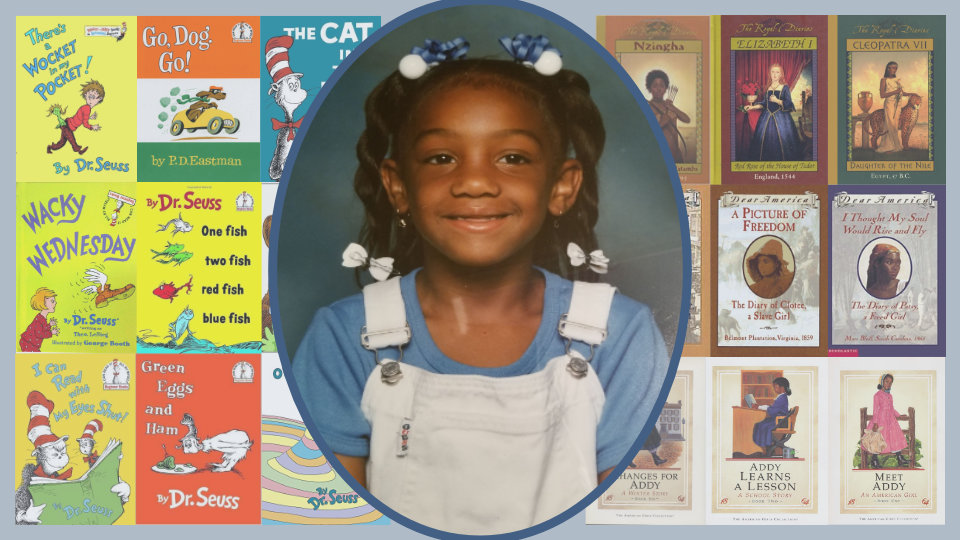
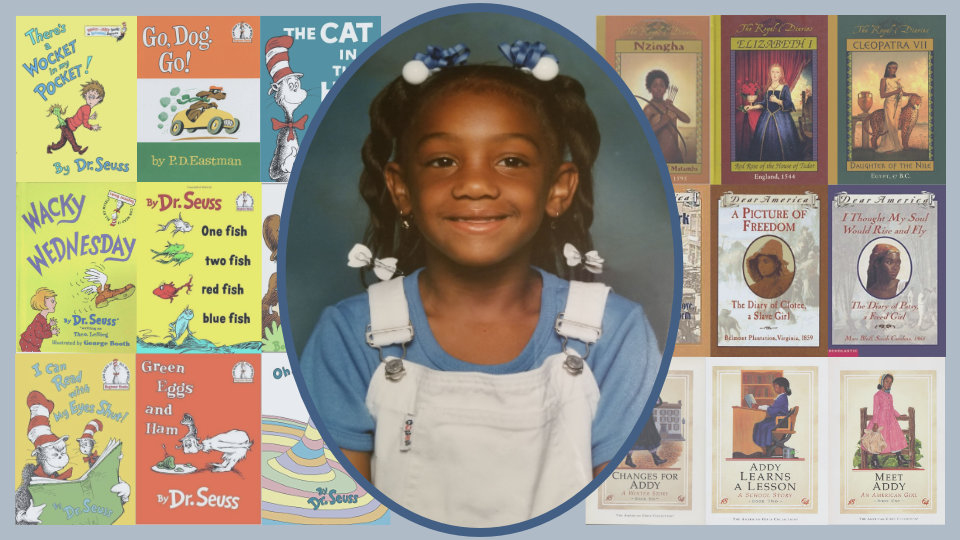
Finish cover image + Add description

Changed region(s): [[0.0, 0.0, 0.7188, 1.0], [0.0, 0.0296, 0.0938, 0.2074], [0.125, 0.9185, 0.1562, 0.9778]]

diff --git a/content/posts/childhood-books.md b/content/posts/childhood-books.md
@@ -4,8 +4,10 @@ publishDate: 2022-02-22
 tags:
   - writer
 newsletter: lifestyle
-description:
-thumbnail: childhood-books.jpg
+description: A previous prompt from the site Hardcover, an up-and-coming alternative to Goodreads, asked us about our favorite childhood books That got me thinking about my favorites and how they may have influenced my writing style.
+meta:
+  description: Hardcover, a Goodreads alternative, asked about our favorite childhood books. These are some of mine.
+thumbnail: childhood-books2.jpg
 ---
 
 I just discovered [Hardcover](https://hardcover.app/), an application that is looking to become a very compelling alternative to Goodreads. So far, I’m really enjoying using it and the community around it is lovely. Those who are designing and coding the app are taking the time to gather feedback from all sorts of different kinds of readers and authors. It’s still under construction, but feel free to sign up and join the discord if you want to be a part of this progress. It’s been a great ride so far.
@@ -16,13 +18,13 @@ Recently they put up a prompt, asking about [favorite childhood books](https://h
 
 My family, especially my mother and grandmother, are big advocates for reading. When my siblings and I were little, my mother would read to us just about every night. She allowed us to pick the book and she would read most of it, but as we got older, we took turns reading the pages.
 
-I don’t know how the collection started or even how big it ended up, but we had several of the classic Dr. Seuss picture books with all the weird languages and creatures. Each of us had our favorites. My sister, liked _A Wocket in my Pocket_. My brother absolutely loved _Go, Dog. Go!_ He loved it so much that he requested to read it nearly every night.
+I don’t know how the collection started or even how big it ended up, but we had several of the classic Dr. Seuss picture books with all the weird languages and creatures. Each of us had our favorites. My sister liked _A Wocket in my Pocket_. My brother absolutely loved _Go, Dog. Go!_ He loved it so much that he requested to read it every chance he got.
 
 My favorite book was _Wacky Wednesday_ where a kid wakes up and all these weird events are happening in the town. As we read the book, my mother, siblings, and I would take the time to find all the strange things happening on each page. That was my favorite part of the book. I would like to think the strangeness of the Dr. Seuss books contributed to my writing style, basically rarely writing anything from mundane, everyday life.
 
 ## Learning History—Mine and Others
 
-Along with reading, my mother and grandmother strongly advocate for the learning of one’s history. As Black Americans, much of our history is watered down to basically Abraham Lincoln freed the slaves, Martin Luther King had a dream, and Rosa Parks said no. :shrug: They wanted me to learn about similar experiences to what my ancestors faced, filling in the blanks my education left. One special way my grandmother provided me that mising history was purchasing the book box set and matching doll of [Addy](https://www.americangirl.com/discover/meet-addy), one of the classic American Girl dolls. Addy and her family were slaves, but determined to risk their lives for freedom when the suspicion of Addy being sold arose. At first, only Addy and her mother escaped to Philadelphia. Throughout the books, they had to deal with the challenges of being separated from one’s family and the ridicule of one’s skin color or poverty.
+Along with reading, my mother and grandmother strongly advocate for the learning of one’s history. As Black Americans, much of our history is watered down to basically Abraham Lincoln freed the slaves, Martin Luther King had a dream, and Rosa Parks said no. :shrug: They wanted me to learn about similar experiences to what my ancestors faced, filling in the blanks my education left. One special way my grandmother provided me that mising history was purchasing the book box set and matching doll of [Addy](https://www.americangirl.com/discover/meet-addy), one of the classic American Girl dolls. Addy and her family were slaves, but determined to risk their lives for freedom when the suspicion of Addy being sold arose. At first, only Addy and her mother escaped to Philadelphia. Throughout the books, they had to deal with the challenges of being separated from one’s family and the ridicule of one’s skin color or lack of wealth.
 
 As a young teenager who also dealt with ridicule based on her skin color, I found strength from these books. I remember marveling at the illustrations within, showing Addy's courage. I still have both the doll and the books today, though I will admit that Addy herself is a little worse for wear.
 
@@ -32,6 +34,6 @@ One time when I was scanning the available titles, I noticed a pack of two books
 
 Noticing that I enjoyed these historical fiction novels, my grandmother bought another diary from the same series (the non-royal edition), _I Thought My Soul Would Rise and Fly: The Diary of Patsy, a Freed Girl, Mars Bluff, South Carolina, 1865_ by Joyce Hansen. She wanted me to continue learning about American slavery and my history. These three books planted within me a desire to learn more from this series, both from the royal and original diaries.
 
-The common thread between all the stories was that these were young women were coming into adulthood, usually during a tumultuous time in history while receiving grand responsibilities (sometimes even beyond their years). This is probably the reason why I tend to read and write YA. I love the fight the young characters show despite being thrust into tiring situations. With time and effort, they manage to overcome them, while at the same time learning more about themselves and growing up a little. It’s definitely the case with Rex and Meenal in [_Element Unknown_](/element-unknown).
+All these stories featured young women coming into adulthood, usually during a tumultuous time in history while receiving grand responsibilities (sometimes even beyond their years). That was their common thread and probably the reason why I tend to read and write YA. I love the fight young characters show despite being thrust into tiring situations. With time and effort, they manage to overcome them, while at the same time learning more about themselves and growing up a little. It’s definitely the case with Rex and Meenal in [_Element Unknown_](/element-unknown).
 
-Did you have any books that defined during your childhood? Do you still read books similar to what you read as a child? Also, sign up for Hardcover! I definitely think it’s going to be competitive to Goodreads. Until next time!
+Did you have any books that defined during your childhood? Do you still read books similar to what you read as a child? Let me know! Also, sign up for Hardcover! I definitely think it’s going to be competitive to Goodreads. Until next time!
